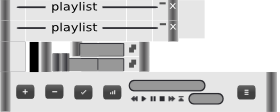
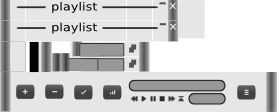
fixed skins parsing, fixed default skin
git-svn-id: svn://svn.code.sf.net/p/qmmp-dev/code/@4319

Changed region(s): [[0.7143, 0.6964, 0.8286, 0.9375]]

diff --git a/src/plugins/Ui/skinned/playlist.cpp b/src/plugins/Ui/skinned/playlist.cpp
@@ -79,7 +79,7 @@ PlayList::PlayList (PlayListManager *manager, QWidget *parent)
     m_resizeWidget->setCursor(m_skin->getCursor (Skin::CUR_PSIZE));
     m_pl_control = new PlaylistControl (this);
 
-    m_length_totalLength = new SymbolDisplay (this,14);
+    m_length_totalLength = new SymbolDisplay (this,17);
     m_length_totalLength->setAlignment (Qt::AlignLeft);
 
     m_current_time = new SymbolDisplay (this,6);
@@ -162,10 +162,10 @@ void PlayList::updatePositions()
     m_sortButton->move (99*m_ratio, 86*m_ratio+29*sy);
 
     m_pl_control->move (128*m_ratio+sx*25, 100*m_ratio+29*sy);
-    m_playlistButton->move (228*m_ratio+sx*25,86*m_ratio+29*sy);
+    m_playlistButton->move (228*m_ratio+sx*25, 86*m_ratio+29*sy);
 
-    m_length_totalLength -> move (131*m_ratio+sx*25,88*m_ratio+29*sy);
-    m_current_time->move (190*m_ratio+sx*25,101*m_ratio+29*sy);
+    m_length_totalLength -> move (132*m_ratio+sx*25, 88*m_ratio+29*sy);
+    m_current_time->move (191*m_ratio+sx*25,101*m_ratio+29*sy);
 
     m_plslider->move (255*m_ratio+sx*25,20*m_ratio);
     m_resizeWidget->move(width() - 25, height() - 29);
